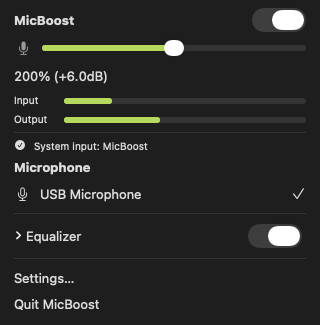
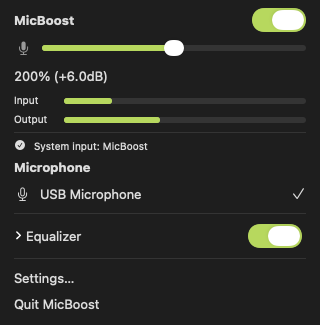
Keep settings pickers selectable and render active switches

diff --git a/Sources/MicBoostUI/Views.swift b/Sources/MicBoostUI/Views.swift
@@ -273,14 +273,15 @@ import SwiftUI
                     Task { await model.engine.setDefaultInputManagement(enabled) }
                 }
                 VStack(alignment: .leading, spacing: 4) {
-                    Picker(localized("Buffer (frames)"), selection: $model.controls.bufferFrames) {
-                        ForEach(
-                            Settings.allowedBufferFrames.filter { frames in
-                                guard let source = model.status?.source else { return true }
-                                return Double(frames) >= source.bufferRange.minimum
-                                    && Double(frames) <= source.bufferRange.maximum
-                            }, id: \.self
-                        ) { Text("\($0)").tag($0) }
+                    let buffer = AppModel.bufferPicker(
+                        sourceBufferRange: model.status?.source?.bufferRange,
+                        current: model.controls.bufferFrames)
+                    Picker(
+                        localized("Buffer (frames)"),
+                        selection: Binding(
+                            get: { buffer.selection }, set: { model.controls.bufferFrames = $0 })
+                    ) {
+                        ForEach(buffer.values, id: \.self) { Text("\($0)").tag($0) }
                     }.onChange(of: model.controls.bufferFrames) {
                         let frames = model.controls.bufferFrames
                         Task {
@@ -298,12 +299,21 @@ import SwiftUI
                     .fixedSize(horizontal: false, vertical: true)
                 }
                 VStack(alignment: .leading, spacing: 4) {
-                    Picker(localized("Channels"), selection: Binding(get: { channel }, set: setChannel)) {
-                        ForEach(1...sourceChannelCount, id: \.self) {
-                            Text("Mono \($0)").tag($0)
+                    let selection =
+                        model.controls.channelSelectionByUID[model.controls.selectedInputUID ?? ""]
+                        ?? .mono(channel: 1)
+                    let channels = AppModel.channelPicker(
+                        selection: selection, channelCount: sourceChannelCount)
+                    Picker(
+                        localized("Channels"),
+                        selection: Binding(get: { channels.selection }, set: setChannel)
+                    ) {
+                        ForEach(channels.values, id: \.self) { value in
+                            let title =
+                                value == -1
+                                ? localized("Mix") : value == -2 ? localized("Stereo") : "Mono \(value)"
+                            Text(title).tag(value)
                         }
-                        Text(localized("Mix")).tag(-1)
-                        if sourceChannelCount >= 2 { Text(localized("Stereo")).tag(-2) }
                     }
                     VStack(alignment: .leading, spacing: 3) {
                         ForEach(1...sourceChannelCount, id: \.self) { channel in
@@ -361,14 +371,6 @@ import SwiftUI
     }
     private var sourceChannelCount: Int {
         max(1, Int(model.status?.source?.inputChannels ?? 1))
-    }
-    private var channel: Int {
-        switch model.controls.channelSelectionByUID[model.controls.selectedInputUID ?? ""] ?? .mono(channel: 1) {
-        case .auto: 1
-        case .monoMix: -1
-        case .mono(let n): n
-        case .stereo: -2
-        }
     }
     private func setChannel(_ value: Int) {
         guard let uid = model.controls.selectedInputUID else { return }

diff --git a/Sources/render-screenshots/main.swift b/Sources/render-screenshots/main.swift
@@ -3,6 +3,15 @@ import MicBoostCore
 import MicBoostUI
 import SwiftUI
 
+/// The offscreen window is key and main so AppKit draws active controls (a native switch in
+/// an inactive window paints the gray track even when its value is on).
+private final class RenderWindow: NSWindow {
+    override var canBecomeKey: Bool { true }
+    override var canBecomeMain: Bool { true }
+    override var isKeyWindow: Bool { true }
+    override var isMainWindow: Bool { true }
+}
+
 @MainActor func capture(
     model: AppModel, kind: String, dark: Bool, directory: URL, locale: Locale, write: Bool
 ) throws {
@@ -18,13 +27,15 @@ import SwiftUI
         ).environment(\.locale, locale))
     host.appearance = appearance
     let size = host.fittingSize
-    let window = NSWindow(
+    let window = RenderWindow(
         contentRect: NSRect(origin: .zero, size: size), styleMask: [.borderless], backing: .buffered, defer: false)
     window.appearance = appearance
     window.contentView = host
     host.frame = NSRect(origin: .zero, size: size)
     window.makeKeyAndOrderFront(nil)
+    window.makeMain()
     host.layoutSubtreeIfNeeded()
+    window.setFrameOrigin(NSPoint(x: -20000, y: -20000))
     RunLoop.current.run(until: Date().addingTimeInterval(0.05))
     host.displayIfNeeded()
     defer { window.close() }
@@ -44,6 +55,9 @@ import SwiftUI
     var source = AudioDevice(id: 2, uid: "usb.microphone", name: "USB Microphone")
     source.inputChannels = 2
     source.sampleRate = 48000
+    source.bufferRange = .init(8, 2250)
+    source.inputLatency = 38
+    source.inputSafetyOffset = 38
     var blackHole = AudioDevice(id: 3, uid: "BlackHole2ch_UID", name: "BlackHole 2ch")
     blackHole.inputChannels = 2
     blackHole.outputChannels = 2
@@ -67,6 +81,24 @@ import SwiftUI
         }
     }
 }
+/// Runs the render inside the app event loop so the helper can become active and AppKit
+/// paints active controls: an inactive app draws every switch with the gray track.
+final class RenderDelegate: NSObject, NSApplicationDelegate {
+    func applicationDidFinishLaunching(_ notification: Notification) {
+        Task { @MainActor in
+            defer { NSApp.terminate(nil) }
+            // AppKit draws inactive controls gray, so the helper waits to be the active app.
+            for _ in 0..<40 where !NSApp.isActive {
+                NSApp.activate(ignoringOtherApps: true)
+                try? await Task.sleep(for: .milliseconds(50))
+            }
+            FileHandle.standardError.write(Data("active=\(NSApp.isActive)\n".utf8))
+            do { try render() } catch { FileHandle.standardError.write(Data("\(error)\n".utf8)) }
+        }
+    }
+}
 let app = NSApplication.shared
-app.setActivationPolicy(.prohibited)
-try render()
+let delegate = RenderDelegate()
+app.delegate = delegate
+app.setActivationPolicy(.accessory)
+app.run()

diff --git a/Tests/MicBoostUITests/AppModelTests.swift b/Tests/MicBoostUITests/AppModelTests.swift
@@ -129,6 +129,50 @@ import Testing
     #expect(model.statusMessage == nil)
 }
 
+@MainActor @Test func bufferPickerAlwaysHasASelection() {
+    let normal = AppModel.bufferPicker(sourceBufferRange: .init(8, 2250), current: 256)
+    #expect(normal.values == Settings.allowedBufferFrames)
+    #expect(normal.selection == 256)
+    #expect(normal.values.contains(normal.selection))
+    // A source that reports no buffer range keeps every allowed size.
+    let unknown = AppModel.bufferPicker(sourceBufferRange: .init(0, 0), current: 256)
+    #expect(unknown.values == Settings.allowedBufferFrames)
+    #expect(unknown.selection == 256)
+    #expect(unknown.values.contains(unknown.selection))
+    let missing = AppModel.bufferPicker(sourceBufferRange: nil, current: 1024)
+    #expect(missing.values == Settings.allowedBufferFrames)
+    #expect(missing.selection == 1024)
+    // A persisted size the source does not support selects the closest offered size.
+    let narrow = AppModel.bufferPicker(sourceBufferRange: .init(5, 260), current: 512)
+    #expect(narrow.values == [64, 128, 256])
+    #expect(narrow.selection == 256)
+    #expect(narrow.values.contains(narrow.selection))
+    // A range between two allowed sizes still offers values instead of an empty list.
+    let gap = AppModel.bufferPicker(sourceBufferRange: .init(300, 400), current: 256)
+    #expect(gap.values == Settings.allowedBufferFrames)
+    #expect(gap.values.contains(gap.selection))
+}
+
+@MainActor @Test func channelPickerAlwaysHasASelection() {
+    let stereo = AppModel.channelPicker(selection: .mono(channel: 1), channelCount: 2)
+    #expect(stereo.values == [1, 2, -1, -2])
+    #expect(stereo.selection == 1)
+    let clamped = AppModel.channelPicker(selection: .mono(channel: 3), channelCount: 2)
+    #expect(clamped.selection == 2)
+    let eight = AppModel.channelPicker(selection: .mono(channel: 4), channelCount: 8)
+    #expect(eight.selection == 4)
+    let stereoEight = AppModel.channelPicker(selection: .stereo(firstChannel: 1), channelCount: 8)
+    #expect(stereoEight.selection == -2)
+    let single = AppModel.channelPicker(selection: .stereo(firstChannel: 1), channelCount: 1)
+    #expect(single.values == [1, -1])
+    #expect(single.selection == 1)
+    let mix = AppModel.channelPicker(selection: .monoMix, channelCount: 1)
+    #expect(mix.selection == -1)
+    for picker in [stereo, clamped, eight, stereoEight, single, mix] {
+        #expect(picker.values.contains(picker.selection))
+    }
+}
+
 @MainActor @Test func limiterBadgeKeepsPanelSize() {
     let quiet = AppModel()
     quiet.limitingUntil = .distantPast

diff --git a/Sources/MicBoostUI/AppModel.swift b/Sources/MicBoostUI/AppModel.swift
@@ -65,6 +65,43 @@ import SwiftUI
         guard db.isFinite, db > -60 else { return 0 }
         return min(1, pow(10, db / 20))
     }
+    /// Values and selection of a settings picker. The selection is always one of the
+    /// values, so a picker can never show an empty value.
+    public struct PickerValues: Equatable, Sendable {
+        public var values: [Int]
+        public var selection: Int
+    }
+    /// Buffer sizes offered for a source: the allowed sizes it supports, or all of them when
+    /// the source does not report a usable range. A persisted size outside the list selects
+    /// the closest offered size.
+    public static func bufferPicker(sourceBufferRange: AudioRange?, current: Int) -> PickerValues {
+        var values = Settings.allowedBufferFrames
+        if let range = sourceBufferRange, range.maximum > 0, range.minimum <= range.maximum {
+            let supported = values.filter { Double($0) >= range.minimum && Double($0) <= range.maximum }
+            if !supported.isEmpty { values = supported }
+        }
+        let selection =
+            values.contains(current) ? current : values.min { abs($0 - current) < abs($1 - current) } ?? current
+        return PickerValues(values: values, selection: selection)
+    }
+    /// Channel options for a source with `channelCount` input channels, and the value that
+    /// represents the persisted selection. Mono channels are one-based, `-1` is Mix and `-2`
+    /// is Stereo; a channel above the source count maps to the last channel and Stereo maps to
+    /// Mono 1 on a single-channel source.
+    public static func channelPicker(selection: ChannelSelection, channelCount: Int) -> PickerValues {
+        let count = max(1, channelCount)
+        var values = Array(1...count)
+        values.append(-1)
+        if count >= 2 { values.append(-2) }
+        let preferred: Int
+        switch selection {
+        case .auto: preferred = 1
+        case .mono(let channel): preferred = min(max(channel, 1), count)
+        case .monoMix: preferred = -1
+        case .stereo: preferred = count >= 2 ? -2 : 1
+        }
+        return PickerValues(values: values, selection: preferred)
+    }
     public var icon: String {
         if !controls.processingEnabled { return "mic" }
         if error != nil || status?.defaultInput.divergedByUser == true { return "exclamationmark.triangle.fill" }

diff --git a/docs/ui.md b/docs/ui.md
@@ -90,7 +90,7 @@ As seções seguem o estilo dos Ajustes do Sistema: cartões agrupados nativos,
 controles com tamanho padrão do sistema, switch nativo à direita com explicação secundária
 junto ao rótulo e linhas de diagnóstico/sobre com rótulo à esquerda e valor à direita.
 
-- **Áudio:** chave "Usar MicBoost como entrada do sistema automaticamente" (`manageDefaultInput`, ligada por padrão), com uma frase explicando que, desligada, cada app precisa selecionar o microfone "BlackHole 2ch" por conta própria; "Buffer (quadros)" (64/128/256/512/1024, só os valores suportados), com descrição abaixo explicando que valores menores reduzem o atraso e valores maiores podem evitar cortes ou estalos; manter o padrão se o áudio estiver estável e modo de canais da fonte atual ([audio-engine.md](audio-engine.md#canais)), com uma linha de legenda para cada opção disponível: Mono 1 (padrão), Mono 2 e demais canais mono em ordem crescente, Misturar e Estéreo. Mono N usa o canal N nos dois lados; Misturar combina todos; Estéreo separa os canais 1 e 2 em esquerda e direita. A lista e as legendas seguem essa ordem; Estéreo só aparece com dois ou mais canais.
+- **Áudio:** chave "Usar MicBoost como entrada do sistema automaticamente" (`manageDefaultInput`, ligada por padrão), com uma frase explicando que, desligada, cada app precisa selecionar o microfone "BlackHole 2ch" por conta própria; "Buffer (quadros)" (64/128/256/512/1024, só os valores suportados), com descrição abaixo explicando que valores menores reduzem o atraso e valores maiores podem evitar cortes ou estalos; manter o padrão se o áudio estiver estável e modo de canais da fonte atual ([audio-engine.md](audio-engine.md#canais)), com uma linha de legenda para cada opção disponível: Mono 1 (padrão), Mono 2 e demais canais mono em ordem crescente, Misturar e Estéreo. Mono N usa o canal N nos dois lados; Misturar combina todos; Estéreo separa os canais 1 e 2 em esquerda e direita. A lista e as legendas seguem essa ordem; Estéreo só aparece com dois ou mais canais. A lista de buffers mantém todas as opções quando a fonte não informa a faixa de buffer, e uma seleção persistida que o dispositivo não oferece aparece como a opção mais próxima. Um canal persistido acima da contagem da fonte aparece como o último canal, e Estéreo em fonte de um canal aparece como Mono 1. Nenhuma das duas listas fica com o seletor vazio.
 - **Diagnóstico** (somente leitura, atualização a 1 Hz com a janela visível): taxa de amostragem, buffer, latência reportada, overloads, `input_missing`, `nonfinite_resets`. Botão "Copiar relatório" (texto para a área de transferência).
 - **Sobre:** versão, link do projeto e licença (GPL-3.0).
 
@@ -127,8 +127,8 @@ A validação manual de VoiceOver, contraste e preferências de acessibilidade e
 
 As capturas fora da tela documentam o conteúdo SwiftUI, não a composição do menu
 com o desktop. Moldura e transparência exigem conferir o menu real composto pelo
-WindowServer. O switch nativo pode sair com o estado visual errado na captura clara
-(`cacheDisplay` em app inativo); no menu real ele é verificado pela acessibilidade.
+WindowServer. O auxiliar roda dentro do laço do app, com janela key e app ativo, para
+que os controles nativos (o switch) sejam desenhados no estado ativo.
 
 O executável do app e o auxiliar de capturas registram o SDK real de compilação
 separadamente do mínimo macOS 14. O AppKit assim escolhe os controles da geração

diff --git a/docs/testing.md b/docs/testing.md
@@ -278,8 +278,7 @@ para as anteriores. Estado final: BlackHole a 48000 Hz, C920 a 16000 Hz, entrada
 Capturas para o README: `docs/screenshots/eq-{light,dark}.png` e
 `settings-{light,dark}.png` foram regeradas com estado de amostra realista (entrada do sistema
 MicBoost com marcação, microfone USB selecionado, ganho +6 dB, medidores com níveis, 48000 Hz,
-buffer 256, latência reportada de 15,3 ms e licença GPL-3.0). O locale vem do idioma resolvido
-pelo catálogo (`en` → `en_US`), então os números usam ponto decimal e vírgula de milhar do
-inglês. `panel-*` e `error-*` continuam geradas, mas não são mais referenciadas no README. O
-switch nativo sai com o estado visual errado na captura clara; a conferência do controle real
-segue sendo a da árvore de acessibilidade.
+buffer 256 no seletor e no diagnóstico, latência reportada de 15,3 ms, switches nativos no
+estado ativo e licença GPL-3.0). O locale vem do idioma resolvido pelo catálogo (`en` →
+`en_US`), então os números usam ponto decimal e vírgula de milhar do inglês. `panel-*` e
+`error-*` continuam geradas, mas não são mais referenciadas no README.
